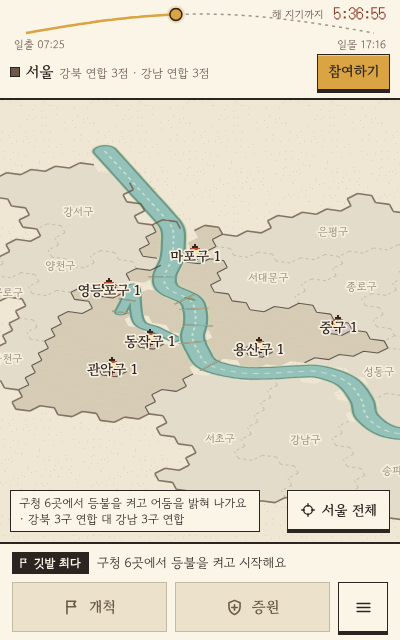
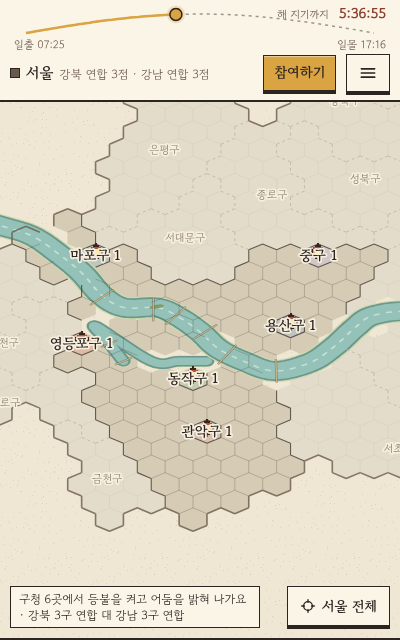
지도 북쪽 위로, 처음부터 헥스 보이기, 글씨체 통일, 비로그인 온보딩, 하단 바 없애기 (#11)
* v3 규칙: 개척 → 접촉 → 쟁탈, 강북·강남 연합, 구청 시작, 여의도 섬, 등불 정령

- 시즌 시작은 모든 칸 어둠, 구청 6칸만 켜짐(빼앗기지 않고 밤에도 안 먹힘)
- 개척(settle): 연합 땅에 붙은 어둠 칸에 병력을 모아 불을 켠다. 20 + 5 × 구청 거리, 한강 다리 +10, 샛강 다리 +45
- 공격은 다른 연합 칸만, 증원은 같은 연합 어디든. 연결 보너스·시야도 연합 단위
- 여의도는 샛강으로 둘러싼 섬, 다리 8개. 랜드마크 7곳에 효과(생산·시간·밤 저항·시야, 같은 종류 최대 15%)
- 밤 침식은 어둠(미개척)과 맞닿은 개척지 가장자리. 응시는 고유 사람만
- 시즌 점수 = 등불 칸 + 랜드마크 × 3, 매일 오늘의 성적(밝힌 칸, 지킨 비율)
- 등불 정령(보조 플레이어): 사람이 적을 때 연합마다 최대 6
- 온보딩 베타 연합 카드, 연합별 구 고르기
- scripts/sim.mjs 밸런스 시뮬레이터와 sim-report.json, 테스트 추가

Claude-Session: https://claude.ai/code/session_014wdP5uRRBQnbFpnLkDpvCk

* 지도 북쪽 위로 돌리기, 처음부터 헥스 보이기, 글씨체 통일, 비로그인 온보딩, 하단 바 없애기

- 지도 투영을 북쪽이 위(한강이 서→동 가로)로. map.js 맨 위 A·B·C·D 행렬 하나로 정리
- 처음 배율에서도 칸(헥스) 결이 보이게 얇은 선을 항상 그림(봉인된 구 안도 옅게)
- 시간 막대 남은 시간·병력·패널 숫자를 본문 글꼴로(픽셀 글꼴 제거)
- 로그인이 안 돼 있으면 들어올 때마다 온보딩부터
- 폰 하단 버튼 줄 삭제: 칸을 누르면 시트에서 개척·진군·증원·깃발, 메뉴는 헤더 ≡(공격 오면 빨간 점),
  낮에는 안내 칩을 누르면 개척하기 좋은 칸으로
- 폰 첫 배율 조금 넓게, 헤더 점수 줄 짧게

Claude-Session: https://claude.ai/code/session_014wdP5uRRBQnbFpnLkDpvCk

---------

diff --git a/web/js/map.js b/web/js/map.js
@@ -1,5 +1,6 @@
 // 지도 그리기(Canvas 2D) — 서울 전역 쿼터뷰.
-// 평면 좌표(km, map.json의 x·y)를 X = (x - y)·0.6, Y = (x + y)·0.3 으로 투영한다.
+// 평면 좌표(km, map.json의 x = 동쪽, y = 남쪽)를 북쪽이 위인 익숙한 지도 방향으로 그린다.
+// X = x·0.85, Y = y·0.62 (세로를 살짝 눌러 비스듬히 내려다보는 느낌만 남김). 한강이 서→동으로 가로로 흐른다.
 // 보이는 순서(먼저 읽혀야 할 것부터): 서울 모양 → 구(이름) → 점령 상태(색·경계) → 움직임(진군·경고) → 칸 이름(확대했을 때만)
 // 그리는 순서: 바탕 → 칸 색 → 한강(벡터) → 경계선 → 유닛 → 안개 → 경고 테두리·이름·알약
 // 색은 styles.css의 CSS 변수(--t-*, --tile-*, --gu-*, --sealed*, --label-*, --pill-*, --fog*)에서 읽는다.
@@ -7,7 +8,12 @@ import { pixelToHex, key, hexDistance, fmtLeft, DIRS } from './rules.js';
 import { marchProgress } from './view.js';
 import { drawSprite, IMG, drawImageFoot } from './sprites.js';
 
-const KX = 0.6, KY = 0.3, LOW = 4;
+const LOW = 4;
+// 투영 행렬: 화면 = (A·x + B·y, C·x + D·y). 바꿀 때는 이 네 값만 고친다
+const A = 0.85, B = 0, C = 0, D = 0.62, DET = A * D - B * C;
+const fx = (x, y) => A * x + B * y, fy = (x, y) => C * x + D * y;
+const inv = (X, Y) => ({ x: (D * X - B * Y) / DET, y: (A * Y - C * X) / DET });
+const depth = (x, y) => fy(x, y); // 그리는 순서(화면 아래쪽일수록 나중)
 const CORNER = [...Array(6)].map((_, i) => { const a = Math.PI / 180 * (60 * i - 30); return [Math.cos(a), Math.sin(a)]; });
 // 이웃 방향(rules.js DIRS 순서) → 그 쪽 변의 꼭짓점 번호
 const EDGE_OF_DIR = { '1,0': [0, 1], '-1,0': [3, 4], '0,1': [1, 2], '0,-1': [4, 5], '1,-1': [5, 0], '-1,1': [2, 3] };
@@ -33,7 +39,7 @@ export class MapView {
     this.plane = { x0: Math.min(...xs) - m, x1: Math.max(...xs) + m, y0: Math.min(...ys) - m, y1: Math.max(...ys) + m };
     // 투영된 지도 범위(칸 꼭짓점 기준): 전체 보기 배율과 정가운데 계산에 쓴다
     const px = [], py = [];
-    for (const c of this.tiles) for (const [cx, cy] of CORNER) { const x = c.x + cx * m, y = c.y + cy * m; px.push(KX * (x - y)); py.push(KY * (x + y)); }
+    for (const c of this.tiles) for (const [cx, cy] of CORNER) { const x = c.x + cx * m, y = c.y + cy * m; px.push(fx(x, y)); py.push(fy(x, y)); }
     this.proj = { x0: Math.min(...px), x1: Math.max(...px), y0: Math.min(...py), y1: Math.max(...py) };
     this.river = smooth(idx.river || []);
     this.saet = smooth(idx.saetgang || []); // 여의도 남쪽 샛강
@@ -56,7 +62,7 @@ export class MapView {
     this.w = r.width; this.hgt = r.height; this.dpr = dpr;
     this.cv.width = Math.max(1, Math.round(r.width * dpr)); this.cv.height = Math.max(1, Math.round(r.height * dpr));
     this.pc = this.opts.pc ?? window.innerWidth >= 1024;
-    this.sDefault = Math.min(this.pc ? 200 : 130, Math.max(84, r.width / (this.pc ? 5.2 : 4))) * (this.opts.zoom || 1);
+    this.sDefault = Math.min(this.pc ? 200 : 110, Math.max(64, r.width / (this.pc ? 5.2 : 5.6))) * (this.opts.zoom || 1); // 폰: 구청 둘레 두세 겹이 보이는 배율
     const P = this.proj;
     this.sFit = Math.max(6, Math.min((r.width - 20) / (P.x1 - P.x0), (r.height - 44) / (P.y1 - P.y0)));
     this.readVars(); this.fogKey = null;
@@ -66,11 +72,11 @@ export class MapView {
   // ---------- 좌표 ----------
   project(x, y) {
     const dx = x - this.cam.x, dy = y - this.cam.y, s = this.cam.s;
-    return { x: this.w / 2 + s * KX * (dx - dy), y: (this.hgt - this.inset) / 2 + s * KY * (dx + dy) };
+    return { x: this.w / 2 + s * fx(dx, dy), y: (this.hgt - this.inset) / 2 + s * fy(dx, dy) };
   }
   unproject(X, Y) {
-    const s = this.cam.s, a = (X - this.w / 2) / (KX * s), b = (Y - (this.hgt - this.inset) / 2) / (KY * s);
-    return { x: this.cam.x + (a + b) / 2, y: this.cam.y + (b - a) / 2 };
+    const s = this.cam.s, p = inv((X - this.w / 2) / s, (Y - (this.hgt - this.inset) / 2) / s);
+    return { x: this.cam.x + p.x, y: this.cam.y + p.y };
   }
   center(c) { return this.project(c.x, c.y); }
   tileAt(X, Y) {
@@ -88,10 +94,10 @@ export class MapView {
   // 칸 묶음의 투영 범위 정가운데를 화면 가운데에, 화면을 채우는 배율로
   fitTiles(list) {
     const m = this.idx.size, px = [], py = [];
-    for (const c of list) for (const [cx, cy] of CORNER) { const x = c.x + cx * m, y = c.y + cy * m; px.push(KX * (x - y)); py.push(KY * (x + y)); }
+    for (const c of list) for (const [cx, cy] of CORNER) { const x = c.x + cx * m, y = c.y + cy * m; px.push(fx(x, y)); py.push(fy(x, y)); }
     const x0 = Math.min(...px), x1 = Math.max(...px), y0 = Math.min(...py), y1 = Math.max(...py);
-    const a = (x0 + x1) / 2 / KX, b = (y0 + y1) / 2 / KY;
-    this.cam.x = (a + b) / 2; this.cam.y = (b - a) / 2;
+    const c0 = inv((x0 + x1) / 2, (y0 + y1) / 2);
+    this.cam.x = c0.x; this.cam.y = c0.y;
     this.cam.s = Math.min((this.w - 24) / (x1 - x0), (this.hgt - this.inset - 56) / (y1 - y0));
     this.clamp();
   }
@@ -159,8 +165,8 @@ export class MapView {
       const p = pos(e);
       if (!d.moved && Math.hypot(p.x - d.start.x, p.y - d.start.y) > 8) { d.moved = true; d.mode = d.mode === 'march?' ? 'march' : 'pan'; }
       if (d.mode === 'pan') {
-        const s = this.cam.s, ax = (p.x - d.last.x) / (KX * s), by = (p.y - d.last.y) / (KY * s);
-        this.cam.x -= (ax + by) / 2; this.cam.y -= (by - ax) / 2; this.clamp();
+        const s = this.cam.s, dv = inv((p.x - d.last.x) / s, (p.y - d.last.y) / s);
+        this.cam.x -= dv.x; this.cam.y -= dv.y; this.clamp();
       }
       if (d.mode === 'march') d.hover = this.tileAt(p.x, p.y);
       d.last = p;
@@ -191,7 +197,7 @@ export class MapView {
   }
   planeTransform() { // 평면 좌표로 바로 그리기(한강 등)
     const s = this.cam.s, o = this.project(0, 0);
-    this.g.setTransform(this.dpr * KX * s, this.dpr * KY * s, -this.dpr * KX * s, this.dpr * KY * s, this.dpr * o.x, this.dpr * o.y);
+    this.g.setTransform(this.dpr * A * s, this.dpr * C * s, this.dpr * B * s, this.dpr * D * s, this.dpr * o.x, this.dpr * o.y);
   }
   makePaper() { // 아주 옅은 종이 결(작은 무늬를 반복)
     const c = document.createElement('canvas'); c.width = c.height = 96;
@@ -283,7 +289,7 @@ export class MapView {
     }
 
     // 3) 경계선: 점령 경계만 또렷하게, 같은 구 안은 아주 옅게, 서울 바깥선, 봉인된 구 사이 점선
-    const thin = [], strong = [], outer = [], sealedLine = [];
+    const thin = [], strong = [], outer = [], sealedLine = [], sealedThin = [];
     for (const c of this.tiles) {
       if (c.kind === 'river' || !visible(c)) continue;
       for (const [dq, dr] of DIRS) {
@@ -291,7 +297,7 @@ export class MapView {
         if (!n) { outer.push(this.edge(c, dq, dr)); continue; }
         if (n.kind === 'river') continue;
         if (n.id < c.id && visible(n)) continue; // 같은 변을 두 번 그리지 않는다
-        if (c.sealed && n.sealed) { if (c.home !== n.home) sealedLine.push(this.edge(c, dq, dr)); continue; }
+        if (c.sealed && n.sealed) { (c.home !== n.home ? sealedLine : sealedThin).push(this.edge(c, dq, dr)); continue; }
         if (c.sealed !== n.sealed) { strong.push(this.edge(c, dq, dr)); continue; }
         if (n.owner !== c.owner || n.gray !== c.gray) strong.push(this.edge(c, dq, dr)); else thin.push(this.edge(c, dq, dr));
       }
@@ -301,8 +307,10 @@ export class MapView {
       g.beginPath(); for (const [p, q] of list) { g.moveTo(p.x, p.y); g.lineTo(q.x, q.y); }
       g.strokeStyle = col; g.lineWidth = w; g.globalAlpha = a; g.setLineDash(dash || []); g.stroke(); g.globalAlpha = 1; g.setLineDash([]);
     };
+    // 칸(헥스) 결은 처음 배율부터 보이게: 작게 볼 때는 가늘지만 조금 더 진하게
     const zoomed = this.hexW() >= 40;
-    if (zoomed) stroke(thin, this.css('--tile-line'), 1, 0.16);
+    stroke(thin, this.css('--tile-line'), zoomed ? 1 : 0.8, zoomed ? 0.22 : 0.3);
+    stroke(sealedThin, this.css('--sealed-line'), 0.6, 0.35);
     stroke(sealedLine, this.css('--sealed-line'), 1, 0.9, [3, 3]);
     stroke(strong, this.css('--tile-line'), zoomed ? 1.6 : 1.1, 0.75);
     stroke(outer, this.css('--outline'), 1.6, 0.8);
@@ -334,11 +342,11 @@ export class MapView {
     for (const id of st.reinforced) {
       const c = idx.byId.get(id); if (!c) continue;
       const ux = c.x - idx.size * 0.3, uy = c.y + idx.size * 0.25;
-      objs.push({ d: ux + uy, draw: () => { const p = this.project(ux, uy), im = IMG['lantern-ours']; if (im && big) drawImageFoot(g, im, p.x, p.y + 6, 1); } });
+      objs.push({ d: depth(ux, uy), draw: () => { const p = this.project(ux, uy), im = IMG['lantern-ours']; if (im && big) drawImageFoot(g, im, p.x, p.y + 6, 1); } });
     }
     for (const c of this.open) { // 구청: 꺼지지 않는 시작 등불
       if (!c.hall || !visible(c)) continue;
-      objs.push({ d: c.x + c.y, draw: () => { const p = pos.get(c.id); drawSprite(g, 'lantern', p.x, p.y - 4, s >= this.sDefault * 0.6 ? 3 : s >= this.sDefault * 0.25 ? 2 : 1); } });
+      objs.push({ d: depth(c.x, c.y), draw: () => { const p = pos.get(c.id); drawSprite(g, 'lantern', p.x, p.y - 4, s >= this.sDefault * 0.6 ? 3 : s >= this.sDefault * 0.25 ? 2 : 1); } });
     }
     for (const m of marches) {
       const a = idx.byId.get(m.src), b = idx.byId.get(m.dst); if (!a || !b) continue;
@@ -346,7 +354,7 @@ export class MapView {
       const t = marchProgress(m, now), flip = this.project(b.x, b.y).x < this.project(a.x, a.y).x;
       for (let i = 0; i < n; i++) {
         const tt = Math.max(0, t - i * 0.06), x = a.x + (b.x - a.x) * tt, y = a.y + (b.y - a.y) * tt;
-        objs.push({ d: x + y, draw: () => {
+        objs.push({ d: depth(x, y), draw: () => {
           const p = this.project(x, y), bob = (Math.floor(now / 300) + i) % 2, im = IMG[(m.npc ? 'fire-' : 'torch-') + (ours ? 'ours' : 'enemy')]; // 정령은 도깨비불
           if (im && big) drawImageFoot(g, im, p.x + (flip ? 1 : -1) * i * 4, p.y + 4 - bob, 1, flip);
           else drawSprite(g, bob ? 'walkA' : 'walkB', p.x, p.y - 6, 1, ours ? this.css('--ours') : this.css('--enemy'));

diff --git a/web/styles.css b/web/styles.css
@@ -24,7 +24,6 @@
   --fog:#efe6d2; --fog-a:.93; --cloud-line:#5a4636; --cloud-fill:#f6efdf; --map-bg:#efe6d2; --dusk:#d9773a;
   --serif:"Gowun Batang", "AppleMyungjo", serif;
   --sans:"Gowun Dodum", "Apple SD Gothic Neo", "Malgun Gothic", system-ui, sans-serif;
-  --pixel:"DotGothic16", ui-monospace, monospace;
   color-scheme:light;
 }
 [data-theme="night"]{
@@ -50,7 +49,7 @@ body{margin:0;background:var(--bg);color:var(--fg);font-family:var(--sans);font-
 h1,h2,h3{font-family:var(--serif);margin:0;font-weight:700}
 h2{font-size:1.15rem}
 p{margin:0}
-.num{font-family:var(--pixel);font-variant-numeric:tabular-nums;letter-spacing:.02em}
+.num{font-family:var(--sans);font-weight:700;font-variant-numeric:tabular-nums;letter-spacing:.01em} /* 숫자도 본문 글꼴(글씨체 통일), 자리만 고정 폭 */
 .hint{color:var(--muted);font-size:.84rem}
 button{font:inherit;color:var(--fg);cursor:pointer}
 button:focus-visible,input:focus-visible,a:focus-visible{outline:2px solid var(--accent);outline-offset:2px}
@@ -74,7 +73,7 @@ button:focus-visible,input:focus-visible,a:focus-visible{outline:2px solid var(-
 .sb-moon{fill:var(--fg)}
 .sb-moon-cut{fill:var(--surface)}
 .sb-lbl{font-size:11px;fill:var(--muted);font-family:var(--sans)}
-.sb-count{font-size:15px;fill:var(--timer);font-family:var(--pixel)}
+.sb-count{font-size:14px;fill:var(--timer);font-family:var(--sans);font-weight:700;font-variant-numeric:tabular-nums}
 .sb-clabel{font-size:11px;fill:var(--muted);font-family:var(--sans)}
 .info{display:flex;align-items:center;gap:10px;min-width:0}
 .who{all:unset;cursor:pointer;display:flex;align-items:baseline;gap:6px;min-width:0;flex:0 1 auto}
@@ -82,7 +81,8 @@ button:focus-visible,input:focus-visible,a:focus-visible{outline:2px solid var(-
 .who .dot{align-self:center;flex:0 0 auto}
 .who b{font-family:var(--serif);font-size:15px;white-space:nowrap}
 .who small{color:var(--muted);font-size:12px;white-space:nowrap;overflow:hidden;text-overflow:ellipsis}
-.troops{display:flex;align-items:center;gap:6px;flex:1 1 auto;min-width:0}
+.troops{display:flex;align-items:center;gap:6px;flex:0 1 auto;min-width:0;margin-left:auto}
+.troops .bar{width:44px;flex:0 0 auto}
 .bar{display:block;flex:1 1 auto;min-width:40px;height:8px;border:2px solid var(--line);background:var(--sunk);box-sizing:content-box}
 .bar i{display:block;height:100%;background:var(--ours);width:0}
 .troop-num{font-size:13px;white-space:nowrap}
@@ -111,28 +111,12 @@ button:focus-visible,input:focus-visible,a:focus-visible{outline:2px solid var(-
 .toast{position:absolute;left:50%;bottom:64px;transform:translateX(-50%);max-width:calc(100% - 24px);padding:8px 12px;z-index:3;
   background:var(--fg);color:var(--bg);border:2px solid var(--line);font-size:.88rem;box-shadow:var(--shadow);text-align:center}
 
-.bottom{display:flex;flex-direction:column;gap:8px;padding:8px 12px max(8px, env(safe-area-inset-bottom,0px));background:var(--surface)}
-.flagline{display:flex;align-items:center;gap:8px;margin:0;font-size:13px;min-width:0}
-.flagline span:last-child{white-space:nowrap;overflow:hidden;text-overflow:ellipsis}
-.tag{flex:0 0 auto;display:inline-flex;align-items:center;gap:4px;padding:2px 8px 2px 6px;background:var(--line);color:var(--surface);font-size:12px;font-weight:700}
-.tag .ico{width:12px;height:12px;stroke-width:2.4}
-:root[data-theme="night"] .tag{background:var(--eyes);color:#0f0c14}
-.acts{display:flex;gap:8px}
-.act{flex:1 1 0;height:50px;display:inline-flex;align-items:center;justify-content:center;gap:7px;padding:0 10px;position:relative;
-  border:var(--btn-bd) solid var(--line);border-radius:0;background:var(--surface);color:var(--fg);box-shadow:var(--btn-hi), var(--btn-key);
-  font-family:var(--serif);font-weight:700;font-size:17px;letter-spacing:.02em;transition:transform .08s, box-shadow .08s, background .15s}
-.act .ico{width:19px;height:19px;flex:0 0 auto}
-.act span{white-space:nowrap}
-:root[data-theme="night"] .tag .ico{display:none}
-.act.primary{background:var(--ours);color:var(--on-ours)}
-.act.menu{flex:0 0 50px;padding:0}
-.act:disabled{cursor:default;background:var(--sunk);color:var(--muted);border-color:var(--line-soft);box-shadow:none;font-size:15px}
-#btnMarch .ico-night,#btnMarch.night .ico-day{display:none}
-#btnMarch.night .ico-night{display:block}
-:root[data-theme="night"] #btnReinforce:not(:disabled){flex-grow:1.4;background:var(--ours);color:var(--on-ours)}
-.badge{position:absolute;right:6px;top:6px;width:8px;height:8px;background:var(--danger);border:1.5px solid var(--surface);border-radius:50%}
-.act:not(:disabled):active,.btn:not(:disabled):active,.sq:active,.front:active,.warn-btn:active{transform:translateY(2px);box-shadow:var(--btn-hi), var(--btn-key-down)}
-@media (hover: hover){.act:not(:disabled):hover,.btn:not(:disabled):hover,.front:hover,.sq:hover{filter:brightness(1.04)}}
+.sq.menu{position:relative;display:inline-flex;align-items:center;justify-content:center;gap:6px;flex:0 0 auto}
+.sq.menu .ico{width:20px;height:20px}
+.guide.tap{cursor:pointer;text-decoration:underline dotted;text-underline-offset:3px}
+.badge{position:absolute;right:4px;top:4px;width:8px;height:8px;background:var(--danger);border:1.5px solid var(--surface);border-radius:50%}
+.btn:not(:disabled):active,.sq:active,.front:active,.warn-btn:active{transform:translateY(2px);box-shadow:var(--btn-hi), var(--btn-key-down)}
+@media (hover: hover){.btn:not(:disabled):hover,.front:hover,.sq:hover{filter:brightness(1.04)}}
 .ico{fill:none;stroke:currentColor;stroke-width:2;stroke-linecap:round;stroke-linejoin:round}
 .btn{min-height:44px;border:var(--btn-bd) solid var(--line);background:var(--surface);box-shadow:var(--btn-hi), var(--btn-key);border-radius:0;
   font-family:var(--serif);font-weight:700;font-size:1rem;padding:6px 12px;color:var(--fg);transition:transform .08s, box-shadow .08s}
@@ -152,7 +136,7 @@ button:focus-visible,input:focus-visible,a:focus-visible{outline:2px solid var(-
 .plist li.empty{display:block;color:var(--muted)}
 .plist b{font-family:var(--serif);font-size:14px}
 .plist small{color:var(--muted);font-size:12px}
-.plist .cd{font-family:var(--pixel);font-size:14px;color:var(--timer)}
+.plist .cd{font-family:var(--sans);font-weight:700;font-variant-numeric:tabular-nums;font-size:14px;color:var(--timer)}
 .plist .cd.ours{color:var(--accent)}
 .plist li.me{background:var(--ours);color:var(--on-ours);margin:0 -6px;padding:6px}
 .plist .btn{min-height:32px;padding:2px 10px;font-size:13px}
@@ -230,12 +214,12 @@ input[type=text],input[type=email],input[type=password]{font:inherit;color:var(-
   .top{padding:4px 16px 10px;border-bottom:2px solid var(--line)}
   .brand{display:block;font-family:var(--serif);font-weight:700;font-size:22px;margin-right:6px}
   .pc-only{display:inline-block}
-  .troops{max-width:320px}
+  .troops{max-width:320px;flex:1 1 auto;margin-left:0}
+  .troops .bar{width:auto;flex:1 1 auto}
   .sb-count{font-size:18px}
   .body{padding:16px;gap:16px}
   .stage{border:2px solid var(--line);box-shadow:4px 4px 0 var(--line)}
   .panel{display:flex;flex-direction:column;gap:12px;flex:0 0 340px;overflow:auto;padding:0 4px 4px 0}
-  .bottom{display:none}
   .front{bottom:44px}
   .guide{max-width:calc(100% - 180px)}
   .sheet{position:absolute;left:auto;right:16px;top:16px;bottom:16px;width:340px;max-height:none;border:2px solid var(--line);box-shadow:var(--shadow);

diff --git a/web/js/app.js b/web/js/app.js
@@ -139,22 +139,11 @@ function render() {
   $('whoDot').style.background = gg ? 'var(--ours)' : 'var(--muted)';
   $('guName').textContent = gg ? gg.name : '서울';
   const other = side === 'n' ? 's' : 'n';
-  $('guSub').textContent = gg ? `등불 ${counts[gu] || 0}칸 · ${sideShort(side)} 연합 ${sc.side[side].score}점 대 ${sc.side[other].score}점`
+  $('guSub').textContent = gg ? `${sideShort(side)} ${sc.side[side].score} : ${sc.side[other].score} ${sideShort(other)}` // 폰 한 줄에 들어가게 연합 점수만(등불 칸 수는 순위에서)
     : `강북 연합 ${sc.side.n.score}점 · 강남 연합 ${sc.side.s.score}점`;
   $('troopBox').hidden = !gg;
   $('btnJoin').hidden = !!gg;
   $('btnJoin').textContent = S.session ? '구 고르기' : '참여하기';
-  // 아래 줄: 첫 버튼은 고른 칸에 따라 개척/진군
-  const bm = $('btnMarch'), act = primaryAction(S.selected);
-  $('marchLbl').textContent = ph === 'night' ? '밤엔 쉬어요' : ph === 'seal' ? '봉인 중' : act === 'attack' ? '진군' : '개척';
-  bm.classList.toggle('night', ph !== 'day');
-  bm.disabled = !side || ph !== 'day' || act === 'own';
-  $('btnReinforce').disabled = !side || ph === 'seal';
-  if (ph === 'day') {
-    const top = (g.flags || [])[0];
-    $('flagTag').textContent = '깃발 최다';
-    $('flagText').textContent = top ? `${S.idx.byId.get(top[0]).name} 칸 · 깃발 ${top[1]}개` : (side ? '칸을 눌러 깃발을 꽂아 목표를 정해요' : '구청 6곳에서 등불을 켜고 시작해요');
-  } else { $('flagTag').textContent = '증원했다면'; $('flagText').textContent = '화면을 끄는 것도 전략이에요'; }
   $('menuBadge').hidden = !inc.length;
   frontLabel();
   $('btnSound').textContent = S.sound ? '소리 끔' : '소리';
@@ -237,7 +226,8 @@ function tick() {
   $('guide').textContent = ph.phase === 'night' ? `지금 이 칸을 보는 사람 ${S.watchers}명 · 많이 볼수록 어둠이 커져요`
     : ph.phase === 'seal' ? '봉인 — 해가 뜨면 잿빛 칸을 다시 개척할 수 있어요'
     : !side ? '구청 6곳에서 등불을 켜고 어둠을 밝혀 나가요 · 강북 3구 연합 대 강남 3구 연합'
-    : isPC() ? '어둠 칸을 눌러 개척 · 다른 연합 불빛과 만나면 진군 · 우리 칸을 끌어 놓아도 돼요' : '어둠 칸을 눌러 개척 · 다른 연합 불빛과 만나면 진군';
+    : isPC() ? '칸을 눌러 개척·진군·증원 · 우리 칸을 끌어 놓아도 돼요 · 여기를 누르면 개척하기 좋은 칸으로' : '칸을 눌러 개척·진군·증원 · 여기를 누르면 개척하기 좋은 칸으로';
+  $('guide').classList.toggle('tap', !!side && ph.phase === 'day');
   $('guide').hidden = !!S.sheet && !isPC();
   $('btnFront').hidden = !!S.sheet && !isPC();
 }
@@ -254,7 +244,7 @@ function openSheet(title, body, live) {
 // 폰: 시트가 가린 만큼 지도를 위로 올리고, 고른 칸을 크게 보여 준다
 function fitToSheet() {
   const mobile = !isPC() && S.sheet;
-  S.map.setInset(mobile ? $('sheet').offsetHeight - document.querySelector('.bottom').offsetHeight : 0);
+  S.map.setInset(mobile ? $('sheet').offsetHeight : 0);
   if (mobile && S.selected) S.map.focus(S.selected); else S.map.clamp();
 }
 function closeSheet() {
@@ -456,24 +446,6 @@ function autoSettleTarget() {
   return best?.id ?? null;
 }
 
-// 아래 버튼: 고른 칸이 맞으면 바로, 아니면 알맞은 칸을 찾는다
-$('btnMarch').addEventListener('click', () => {
-  const side = mySide(); if (!side || phase() !== 'day') return;
-  const act = primaryAction(S.selected);
-  if (S.selected && act === 'attack') return openMarch(S.selected);
-  if (S.selected && canSettle(S.idx, S.selected, side)) return openSettle(S.selected);
-  const t = autoSettleTarget();
-  if (t) { S.map.focus(t); return openSettle(t); }
-  toast('개척할 칸을 지도에서 눌러 주세요.');
-});
-$('btnReinforce').addEventListener('click', () => {
-  const side = mySide(); if (!side) return;
-  if (S.selected && canReinforce(S.idx, S.selected, side)) return openReinforce(S.selected);
-  const inc = incoming(S.idx, S.game.marches, side)[0];
-  const pick = inc ? inc.dst : (phase() === 'night' ? darkFront(S.idx, side).sort((a, b) => a.defense - b.defense)[0]?.id : null);
-  if (pick) { S.map.focus(pick); return openReinforce(pick); }
-  toast('증원할 우리 연합 칸을 지도에서 눌러 주세요.');
-});
 $('warn').addEventListener('click', e => {
   const id = +$('warn').dataset.tile; if (!id) return;
   S.map.focus(id);
@@ -481,12 +453,17 @@ $('warn').addEventListener('click', e => {
 });
 // 둘러보는 중: 시범 전선 ↔ 서울 전체, 구가 있으면: 우리 전선으로
 function frontLabel() { $('frontLbl').textContent = myGu() ? '우리 전선으로' : S.map.view === 'open' ? '서울 전체' : '시범 전선'; }
+// 안내 칩: 낮에 구가 있으면 눌러서 개척하기 좋은 칸(깃발 최다 → 가장 싼 칸)으로 바로 간다(하단 버튼을 없앤 대신)
+$('guide').addEventListener('click', () => {
+  if (!mySide() || phase() !== 'day') return;
+  const t = autoSettleTarget();
+  if (t) { S.map.focus(t); openSettle(t); } else toast('개척할 칸을 지도에서 눌러 주세요.');
+});
 $('btnFront').addEventListener('click', () => {
   if (!myGu() && S.map.view === 'open') S.map.fitAll(); else if (!myGu()) S.map.fitOpen(); else S.map.home();
   frontLabel();
 });
 $('btnJoin').addEventListener('click', () => showOnboard(S.session ? 'gu' : 'story'));
-$('btnMenu').addEventListener('click', openMenu);
 $('btnMenuPc').addEventListener('click', openMenu);
 $('btnSound').addEventListener('click', () => { S.sound = !S.sound; store.set('sound', S.sound ? '1' : '0'); beep(); render(); });
 $('emblem').addEventListener('click', () => (S.session ? openRanking() : showOnboard('story')));
@@ -743,7 +720,7 @@ async function start() {
   await refresh();
   subscribeRealtime();
   watchNow();
-  if (!S.session) { if (!store.get('seenStory') || new URLSearchParams(location.search).has('join')) showOnboard('story'); }
+  if (!S.session) showOnboard('story'); // 로그인이 안 돼 있으면 어떤 게임인지부터(매번). '먼저 지도 둘러보기'로 닫을 수 있다
   else if (!me()?.active) showOnboard('gu');
   else if (phase() !== 'night' && store.get('report') !== S.game.phase.date) { store.set('report', S.game.phase.date); openReport(true); }
   sb.auth.onAuthStateChange((ev, session) => {

diff --git a/web/index.html b/web/index.html
@@ -17,7 +17,7 @@
 <meta name="apple-mobile-web-app-title" content="어둑시니">
 <link rel="preconnect" href="https://fonts.googleapis.com">
 <link rel="preconnect" href="https://fonts.gstatic.com" crossorigin>
-<link rel="stylesheet" href="https://fonts.googleapis.com/css2?family=DotGothic16&family=Gowun+Batang:wght@400;700&family=Gowun+Dodum&display=swap">
+<link rel="stylesheet" href="https://fonts.googleapis.com/css2?family=Gowun+Batang:wght@400;700&family=Gowun+Dodum&display=swap">
 <link rel="stylesheet" href="styles.css">
 </head>
 <body>
@@ -38,7 +38,7 @@
       </div>
       <button class="btn small primary" id="btnJoin" type="button">참여하기</button>
       <button class="sq pc-only" id="btnSound" type="button" aria-label="소리 켜기">소리</button>
-      <button class="sq pc-only" id="btnMenuPc" type="button">메뉴</button>
+      <button class="sq menu" id="btnMenuPc" type="button" aria-label="메뉴"><svg class="ico" viewBox="0 0 24 24" aria-hidden="true"><path d="M4 7h16M4 12h16M4 17h16"/></svg><span class="pc-only">메뉴</span><i class="badge" id="menuBadge" hidden></i></button>
     </div>
   </header>
 
@@ -71,14 +71,6 @@
     </aside>
   </div>
 
-  <nav class="bottom">
-    <p class="flagline"><span class="tag"><svg class="ico" viewBox="0 0 24 24" aria-hidden="true"><path d="M6 21V4"/><path d="M6 4h10l-2 3.5L16 11H6"/></svg><span id="flagTag">깃발 최다</span></span><span id="flagText">아직 깃발이 없어요</span></p>
-    <div class="acts">
-      <button type="button" id="btnMarch" class="act primary"><svg class="ico ico-day" viewBox="0 0 24 24" aria-hidden="true"><path d="M5 20V4"/><path d="M5 4h11l-2.5 3.5L16 11H5"/></svg><svg class="ico ico-night" viewBox="0 0 24 24" aria-hidden="true"><path d="M19 14.5A7.5 7.5 0 0 1 9.5 5a7.5 7.5 0 1 0 9.5 9.5z"/></svg><span id="marchLbl">진군</span></button>
-      <button type="button" id="btnReinforce" class="act"><svg class="ico" viewBox="0 0 24 24" aria-hidden="true"><path d="M12 3l7 3v5.5c0 4.5-3 7.6-7 9.5-4-1.9-7-5-7-9.5V6z"/><path d="M12 8.5v7M8.5 12h7"/></svg><span>증원</span></button>
-      <button type="button" id="btnMenu" class="act menu" aria-label="메뉴"><svg class="ico" viewBox="0 0 24 24" aria-hidden="true"><path d="M4 7h16M4 12h16M4 17h16"/></svg><i class="badge" id="menuBadge" hidden></i></button>
-    </div>
-  </nav>
 </div>
 
 <!-- 온보딩: 세계관 3컷 → 구 고르기 → 등불지기 등록 → 홈 화면 추가 -->
